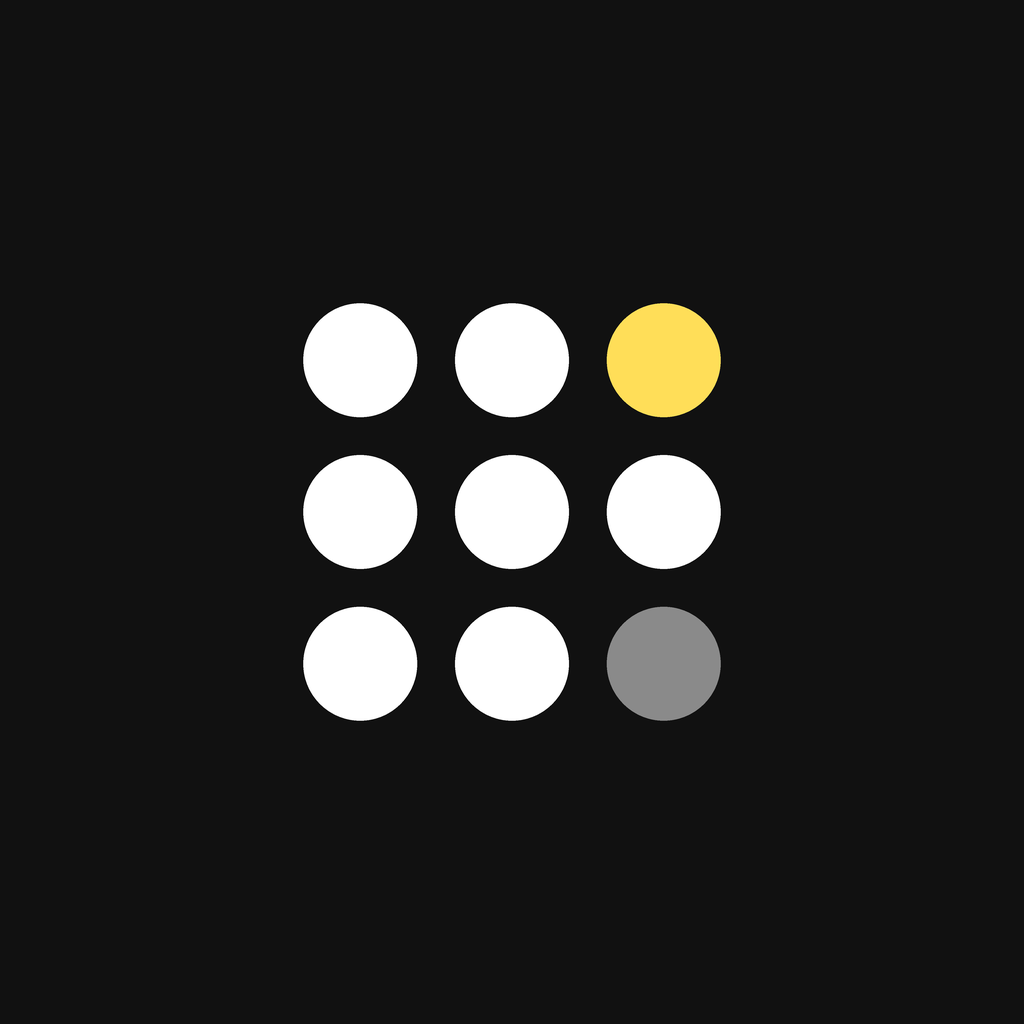
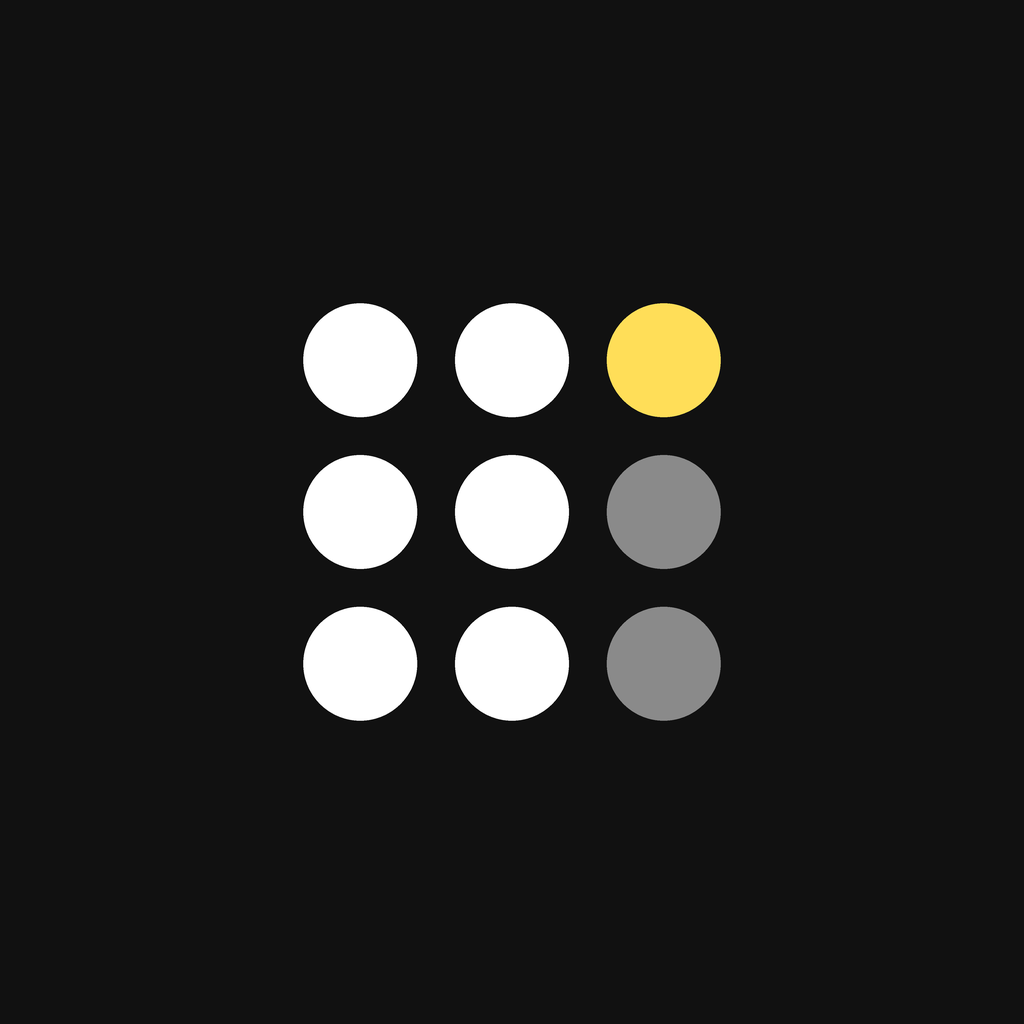
fix(rider): mute middle-right on the launcher mark
Right column is yellow / #8A8A8A / #8A8A8A. Middle-right is not white.
Middle-left stays white.

Changed region(s): [[0.5938, 0.4375, 0.7188, 0.5625]]

diff --git a/__tests__/appIcon.test.ts b/__tests__/appIcon.test.ts
@@ -169,7 +169,7 @@ describe("GRIDGO app icon", () => {
     expect(near(pngPixel(background, 512, 512), plate)).toBe(true);
   });
 
-  it("copies printing_app: seven whites, yellow top-right, muted bottom-right", () => {
+  it("paints yellow / muted / muted on the right column", () => {
     const icon = join(images, "icon.png");
     // 108-viewport centres 38/54/70 scaled onto 1024.
     const at = (cx: number, cy: number) =>
@@ -179,7 +179,7 @@ describe("GRIDGO app icon", () => {
     expect(near(at(70, 38), [0xff, 0xde, 0x58])).toBe(true);
     expect(near(at(38, 54), [255, 255, 255])).toBe(true);
     expect(near(at(54, 54), [255, 255, 255])).toBe(true);
-    expect(near(at(70, 54), [255, 255, 255])).toBe(true);
+    expect(near(at(70, 54), [0x8a, 0x8a, 0x8a])).toBe(true);
     expect(near(at(38, 70), [255, 255, 255])).toBe(true);
     expect(near(at(54, 70), [255, 255, 255])).toBe(true);
     expect(near(at(70, 70), [0x8a, 0x8a, 0x8a])).toBe(true);

diff --git a/scripts/generate-app-icon.py b/scripts/generate-app-icon.py
@@ -1,13 +1,13 @@
 #!/usr/bin/env python3
-"""Rasterise the legacy printing_app adaptive mark exactly.
+"""Rasterise the GRIDGO adaptive mark.
 
-Source: printing_app ic_launcher_foreground.xml (108×108 viewport, r=6,
-path starts M32/48/64 — geometric centres 38/54/70) on cockpit-black
-#111111. Seven whites, yellow top-right, muted bottom-right.
-Middle-left stays white — no extra grey cell.
+Geometry from printing_app ic_launcher_foreground.xml (108×108 viewport,
+r=6, path starts M32/48/64 — geometric centres 38/54/70) on cockpit-black
+#111111. Right column is yellow / muted / muted. Middle-right is muted,
+not white. Middle-left stays white.
 
     #FFFFFF  #FFFFFF  #FFDE58
-    #FFFFFF  #FFFFFF  #FFFFFF
+    #FFFFFF  #FFFFFF  #8A8A8A
     #FFFFFF  #FFFFFF  #8A8A8A
 
 Run from the repo root:
@@ -25,7 +25,7 @@ from PIL import Image, ImageDraw
 PLATE = (0x11, 0x11, 0x11, 255)
 DOT_WHITE = (0xFF, 0xFF, 0xFF, 255)
 DOT_YELLOW = (0xFF, 0xDE, 0x58, 255)
-DOT_BOT_RIGHT = (0x8A, 0x8A, 0x8A, 255)
+DOT_MUTED = (0x8A, 0x8A, 0x8A, 255)
 
 # Vector viewport 108. Path `M32,38 a6,6 …` is a r=6 circle whose centre
 # is start + radius, i.e. 38 / 54 / 70. Do not add a second safe-zone
@@ -45,8 +45,8 @@ def dot_fill(col: int, row: int, *, mono: bool) -> tuple[int, int, int, int]:
         return DOT_WHITE
     if col == 2 and row == 0:
         return DOT_YELLOW
-    if col == 2 and row == 2:
-        return DOT_BOT_RIGHT
+    if col == 2:
+        return DOT_MUTED
     return DOT_WHITE
 
 
